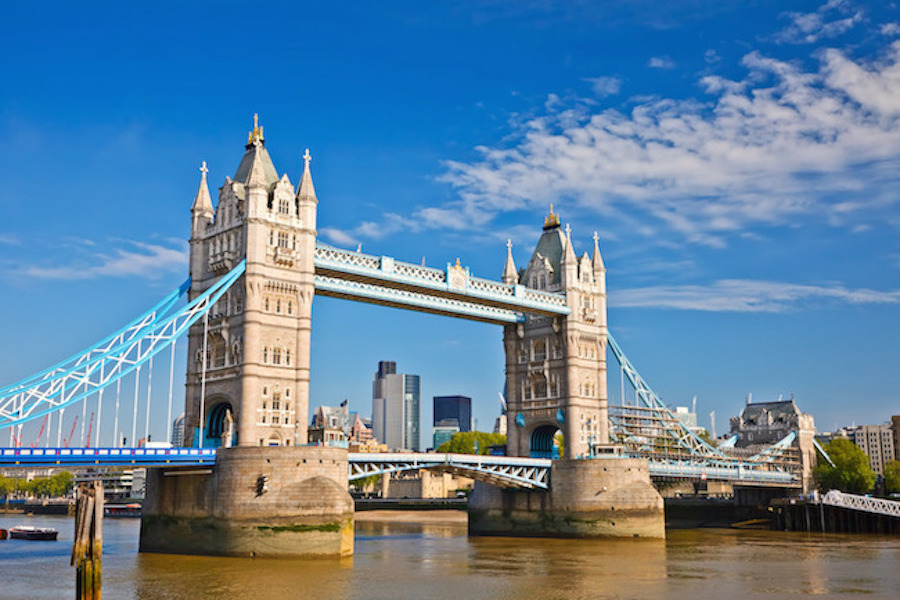
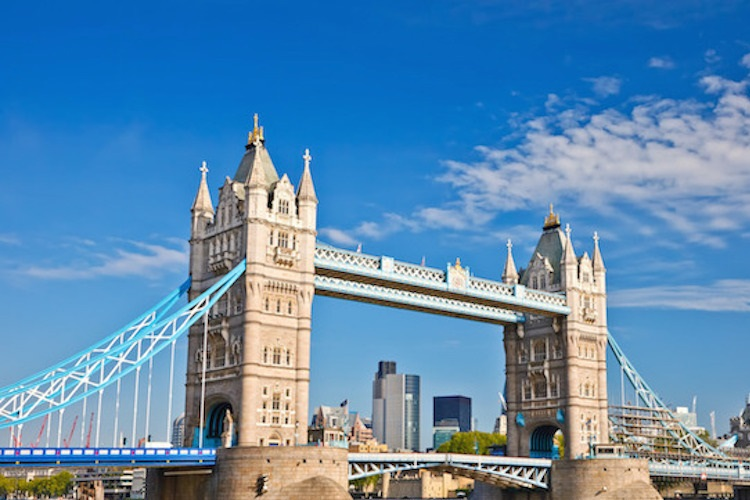
images compressed

diff --git a/resources/css/style.css b/resources/css/style.css
@@ -194,10 +194,10 @@ input[type=submit]:active {
 /* ------------------------------------------------- */
 
 header {
-    background-image: -webkit-gradient(linear, left top, left bottom, from(rgba(0, 0, 0, 0.7)), to(rgba(0, 0, 0, 0.7))), url(../img/hero.jpg);
-    background-image: -webkit-linear-gradient(rgba(0, 0, 0, 0.7), rgba(0, 0, 0, 0.7)), url(../img/hero.jpg);
-    background-image: -o-linear-gradient(rgba(0, 0, 0, 0.7), rgba(0, 0, 0, 0.7)), url(../img/hero.jpg);
-    background-image: linear-gradient(rgba(0, 0, 0, 0.7), rgba(0, 0, 0, 0.7)), url(../img/hero.jpg);
+    background-image: -webkit-gradient(linear, left top, left bottom, from(rgba(0, 0, 0, 0.7)), to(rgba(0, 0, 0, 0.7))), url(../img/hero-min.jpg);
+    background-image: -webkit-linear-gradient(rgba(0, 0, 0, 0.7), rgba(0, 0, 0, 0.7)), url(../img/hero-min.jpg);
+    background-image: -o-linear-gradient(rgba(0, 0, 0, 0.7), rgba(0, 0, 0, 0.7)), url(../img/hero-min.jpg);
+    background-image: linear-gradient(rgba(0, 0, 0, 0.7), rgba(0, 0, 0, 0.7)), url(../img/hero-min.jpg);
     background-size: cover;
     background-position: center;
     height: 100vh;
@@ -438,10 +438,10 @@ header {
 /* ------------------------------------------------- */
 
 .section-testimonials {
-    background-image: -webkit-gradient(linear, left top, left bottom, from(rgba(0, 0, 0, 0.8)), to(rgba(0, 0, 0, 0.8))), url(../img/back-customers.jpg);
-    background-image: -webkit-linear-gradient(rgba(0, 0, 0, 0.8), rgba(0, 0, 0, 0.8)), url(../img/back-customers.jpg);
-    background-image: -o-linear-gradient(rgba(0, 0, 0, 0.8), rgba(0, 0, 0, 0.8)), url(../img/back-customers.jpg);
-    background-image: linear-gradient(rgba(0, 0, 0, 0.8), rgba(0, 0, 0, 0.8)), url(../img/back-customers.jpg);
+    background-image: -webkit-gradient(linear, left top, left bottom, from(rgba(0, 0, 0, 0.8)), to(rgba(0, 0, 0, 0.8))), url(../img/back-customers-min.jpg);
+    background-image: -webkit-linear-gradient(rgba(0, 0, 0, 0.8), rgba(0, 0, 0, 0.8)), url(../img/back-customers-min.jpg);
+    background-image: -o-linear-gradient(rgba(0, 0, 0, 0.8), rgba(0, 0, 0, 0.8)), url(../img/back-customers-min.jpg);
+    background-image: linear-gradient(rgba(0, 0, 0, 0.8), rgba(0, 0, 0, 0.8)), url(../img/back-customers-min.jpg);
     background-size: cover;
     color: #fff;
     background-attachment: fixed;
